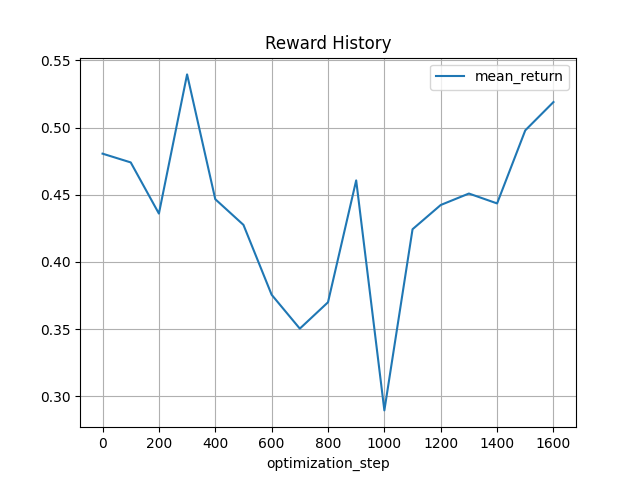
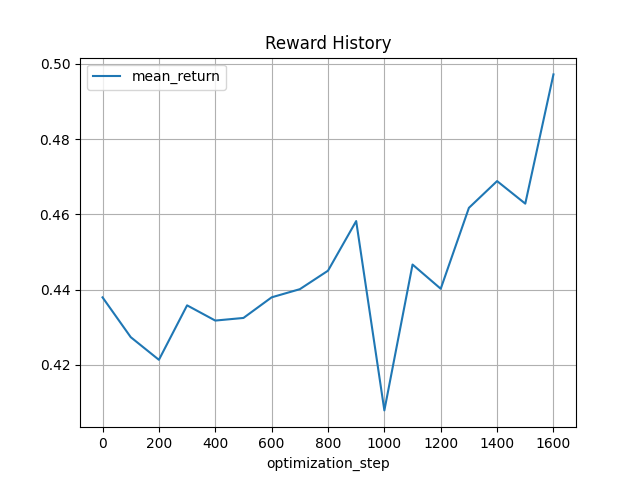
Added results

diff --git a/run_agent.py b/run_agent.py
@@ -83,7 +83,7 @@ def test_agent(agent, vehicle_attr_list, d_max):
             if target_lane_idx<3 and target_lane_idx>=0:
                 traci.vehicle.changeLane('ego', target_lane_idx, duration=10)
             
-            reward = get_reward(a, v_ego, v_desired)
+            reward = get_reward(a, v_ego, v_desired=25)
             reward_list.append(reward)
         
     epi_return = sum(reward_list)/len(reward_list)
